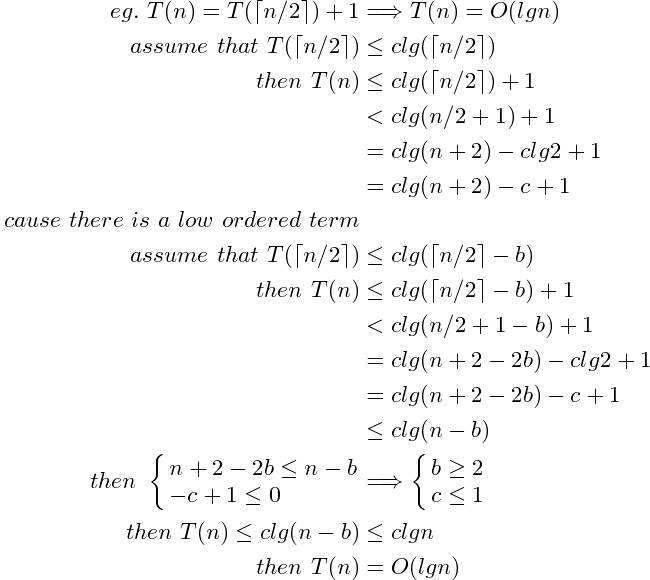
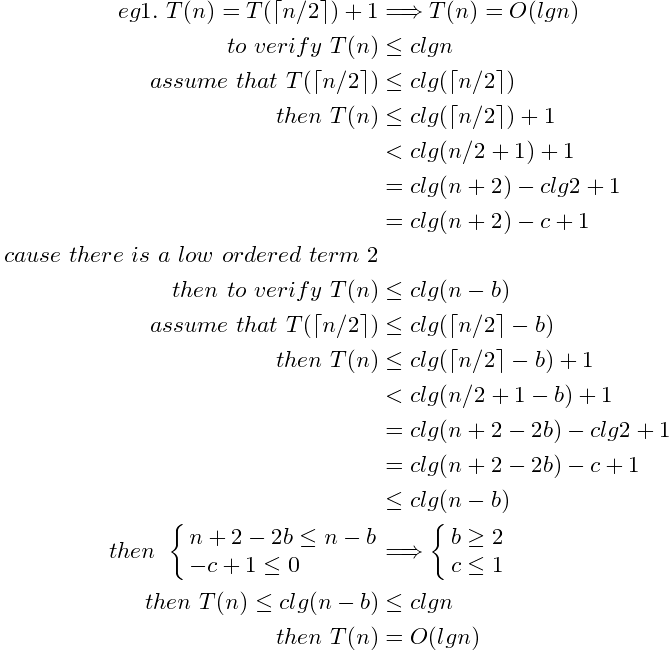
update

Changed region(s): [[0.0, 0.3724, 1.0, 1.0], [0.1538, 0.0, 0.9231, 0.3724]]

diff --git a/Algorithmn/Analysis/Analysis.md b/Algorithmn/Analysis/Analysis.md
@@ -43,6 +43,8 @@
 	- verify
 
 		<img src="./example1.png">
+		=====
+		<img src="./example2.png">
 	- solve
 - Recursive Tree: 通過畫出遞歸樹來求解開銷
 
